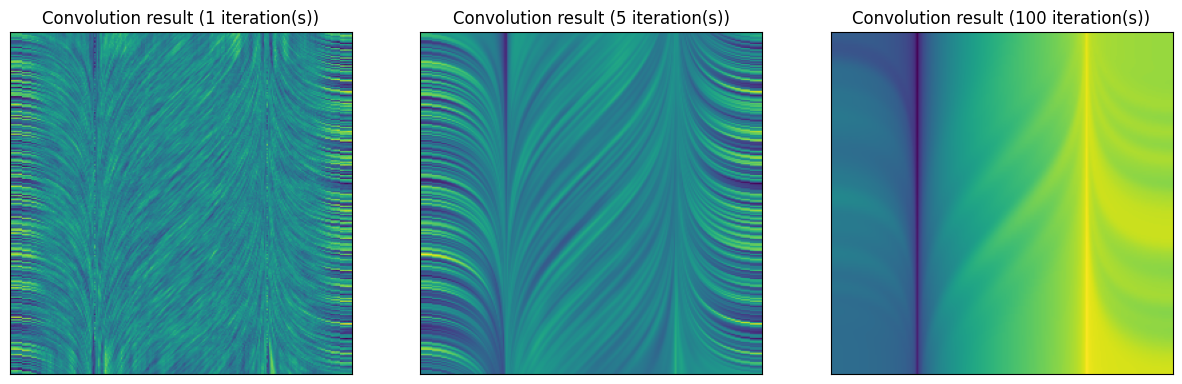
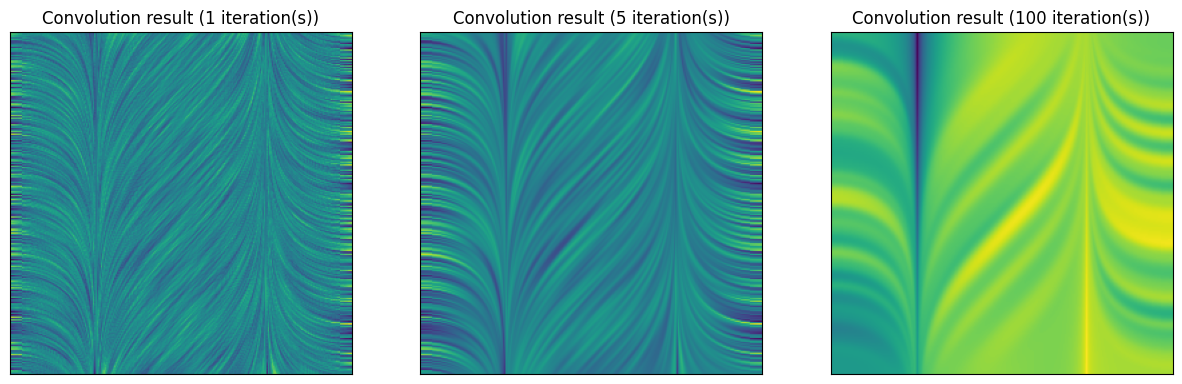
DOC: prefer using a convex kernel shape in examples

diff --git a/README.md b/README.md
@@ -54,7 +54,7 @@ ax.streamplot(X, Y, U, V)
 
 Now let's compute some convolutions, varying the number of iterations
 ```py
-kernel = np.abs(np.linspace(-1, 1, 65))
+kernel = 1 - np.abs(np.linspace(-1, 1, 65))
 
 fig_out, axs_out = plt.subplots(ncols=3, figsize=(15, 5))
 for ax in axs_out:
@@ -92,7 +92,7 @@ SHAPE = NX, NY = (256, 256)
 prng = np.random.default_rng(0)
 
 texture = prng.random(SHAPE)
-kernel = np.abs(np.linspace(-1, 1, 65, dtype="float64"))
+kernel = 1 - np.abs(np.linspace(-1, 1, 65, dtype="float64"))
 
 U0 = np.ones(SHAPE)
 ii = np.broadcast_to(np.arrange(NX), SHAPE)
